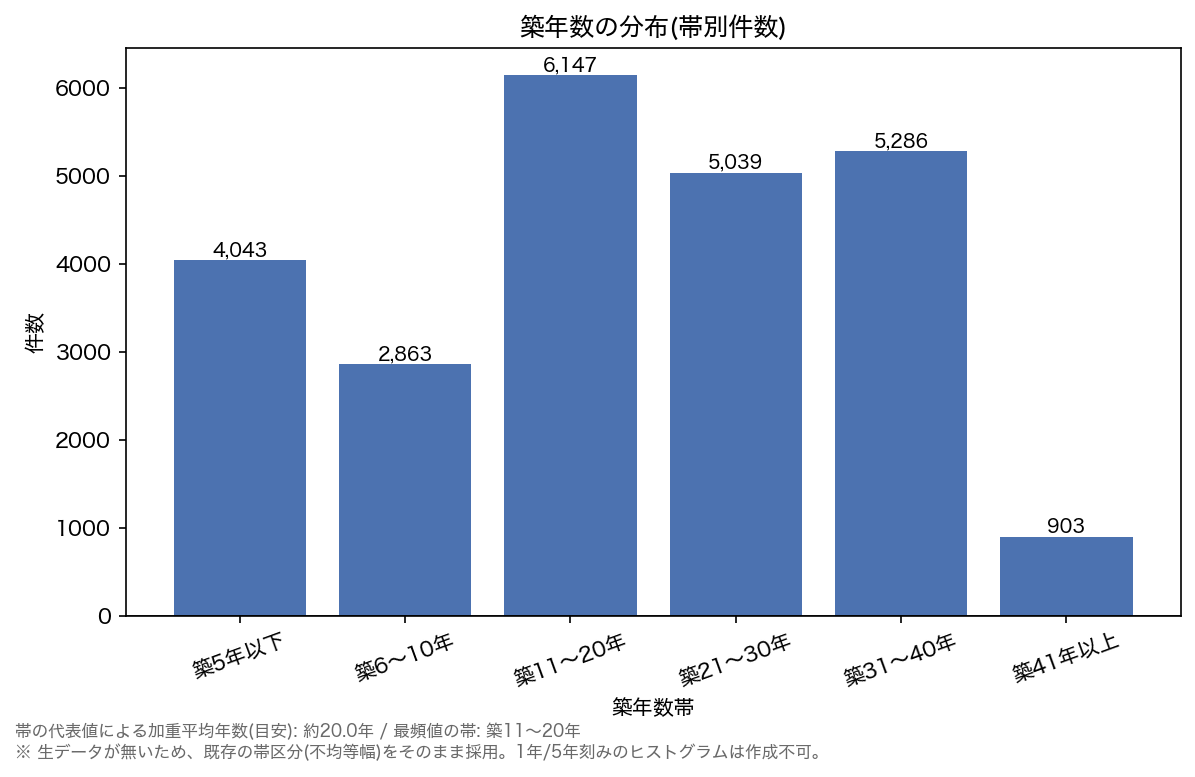
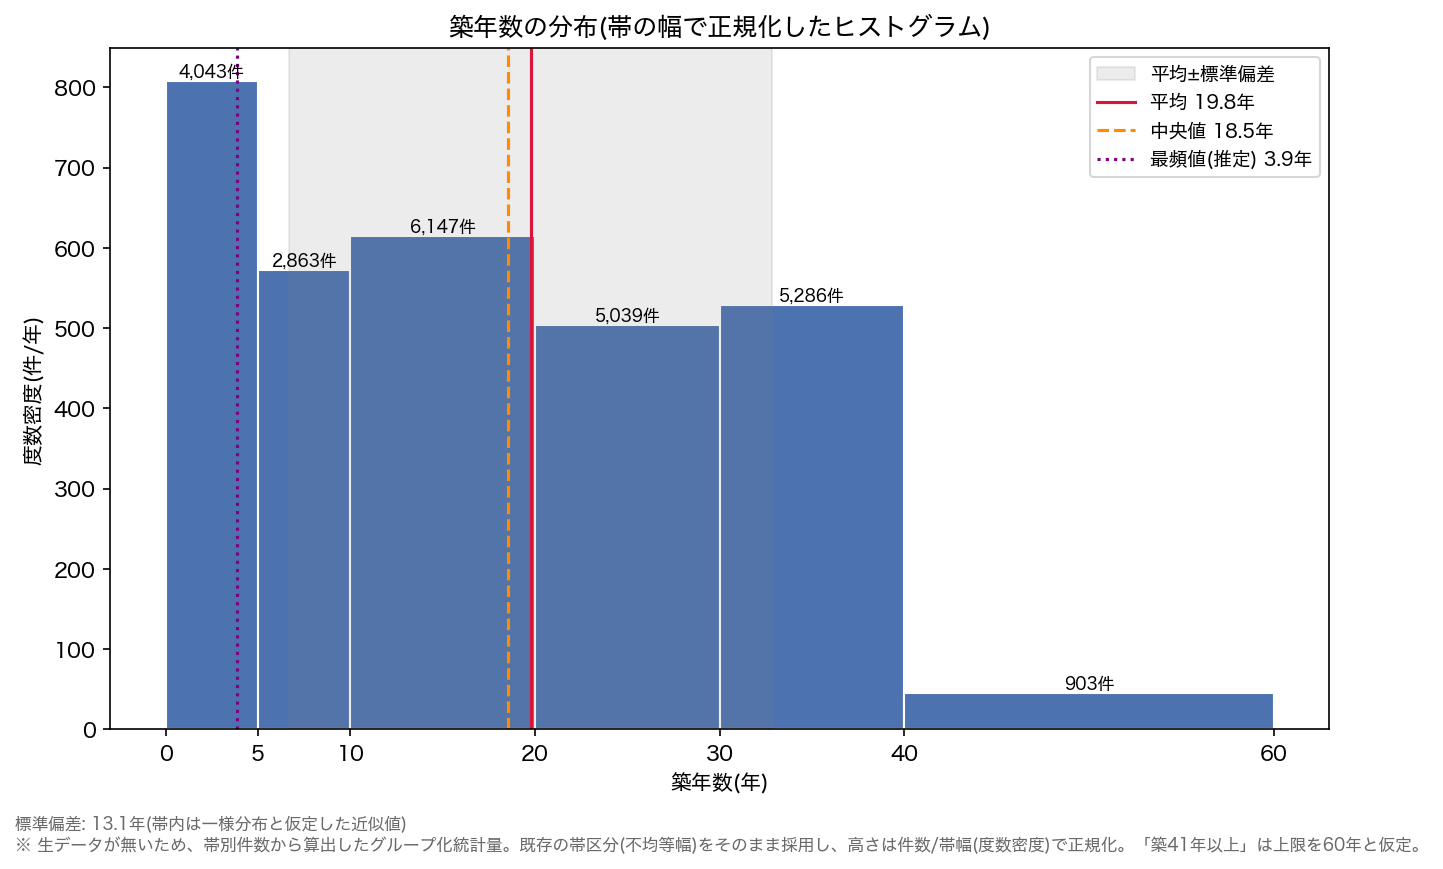
Add grouped mean/median/mode/std to age distribution chart
Recompute age band boundaries/widths from a single source, derive
grouped-data mean, variance (assuming within-band uniform distribution),
median (cumulative interpolation) and mode (classic grouped-mode
formula using density to account for unequal band widths), and overlay
them on a proper density-normalized histogram instead of only printing
text.

diff --git a/analysis_age_layout/analyze.py b/analysis_age_layout/analyze.py
@@ -28,14 +28,18 @@ OUT_DIR = Path(__file__).resolve().parent / "output"
 OUT_DIR.mkdir(exist_ok=True)
 
 AGE_ORDER = ["築5年以下", "築6〜10年", "築11〜20年", "築21〜30年", "築31〜40年", "築41年以上"]
-AGE_MIDPOINT = {
-    "築5年以下": 2.5,
-    "築6〜10年": 8,
-    "築11〜20年": 15.5,
-    "築21〜30年": 25.5,
-    "築31〜40年": 35.5,
-    "築41年以上": 45,  # 上限なしの帯のため仮の代表値(下限+4年)を採用
+# 各帯の下限・上限(年)。「築41年以上」は上限なしの帯のため、直前の帯幅(10年)を
+# 目安に上限60年と仮定する(※この仮定は結果に注記する)。
+AGE_BOUNDS = {
+    "築5年以下": (0, 5),
+    "築6〜10年": (5, 10),
+    "築11〜20年": (10, 20),
+    "築21〜30年": (20, 30),
+    "築31〜40年": (30, 40),
+    "築41年以上": (40, 60),
 }
+AGE_MIDPOINT = {band: (lo + hi) / 2 for band, (lo, hi) in AGE_BOUNDS.items()}
+AGE_WIDTH = {band: hi - lo for band, (lo, hi) in AGE_BOUNDS.items()}
 
 
 def load_data() -> dict[str, pd.DataFrame]:
@@ -66,35 +70,82 @@ def step1_overview(data: dict) -> None:
     print("\n※ 欠損・異常値・重複はいずれも集計元スクリプト側で既に除外/処理済み。")
 
 
-def step2_age_distribution(age: pd.DataFrame) -> None:
+def grouped_age_stats(counts: pd.Series) -> dict[str, float]:
+    """帯(不均等幅)ごとの件数から、区間内一様分布を仮定したグループ化データの
+    平均・標準偏差・中央値・最頻値を求める(生データが無いための近似値)。"""
+    bands = list(counts.index)
+    n = counts.sum()
+
+    mean = sum(counts[b] * AGE_MIDPOINT[b] for b in bands) / n
+    variance = sum(
+        counts[b] * ((AGE_MIDPOINT[b] - mean) ** 2 + AGE_WIDTH[b] ** 2 / 12)
+        for b in bands
+    ) / n
+    std = variance ** 0.5
+
+    cum = 0
+    median = None
+    for b in bands:
+        lo, hi = AGE_BOUNDS[b]
+        if cum + counts[b] >= n / 2:
+            median = lo + (n / 2 - cum) / counts[b] * (hi - lo)
+            break
+        cum += counts[b]
+
+    density = {b: counts[b] / AGE_WIDTH[b] for b in bands}
+    modal_band = max(density, key=density.get)
+    i = bands.index(modal_band)
+    lo, hi = AGE_BOUNDS[modal_band]
+    f1 = density[modal_band]
+    f0 = density[bands[i - 1]] if i > 0 else 0
+    f2 = density[bands[i + 1]] if i < len(bands) - 1 else 0
+    denom = (f1 - f0) + (f1 - f2)
+    mode = lo + (f1 - f0) / denom * (hi - lo) if denom else (lo + hi) / 2
+
+    return {"mean": mean, "std": std, "median": median, "mode": mode, "modal_band": modal_band}
+
+
+def step2_age_distribution(age: pd.DataFrame) -> dict[str, float]:
     df = age.set_index("築年数帯").loc[AGE_ORDER]
     counts = df["件数"]
+    s = grouped_age_stats(counts)
 
-    weighted_mean = np.average([AGE_MIDPOINT[a] for a in AGE_ORDER], weights=counts)
-    mode_band = counts.idxmax()
+    fig, ax = plt.subplots(figsize=(9, 5.5))
+    lefts = [AGE_BOUNDS[b][0] for b in AGE_ORDER]
+    widths = [AGE_WIDTH[b] for b in AGE_ORDER]
+    heights = [counts[b] / AGE_WIDTH[b] for b in AGE_ORDER]
+    bars = ax.bar(lefts, heights, width=widths, align="edge", color="#4C72B0", edgecolor="white")
+    for b, bar in zip(AGE_ORDER, bars):
+        ax.text(
+            bar.get_x() + bar.get_width() / 2, bar.get_height(),
+            f"{counts[b]:,}件", ha="center", va="bottom", fontsize=8,
+        )
 
-    fig, ax = plt.subplots(figsize=(8, 5))
-    ax.bar(AGE_ORDER, counts, color="#4C72B0")
-    ax.set_xlabel("築年数帯")
-    ax.set_ylabel("件数")
-    ax.set_title("築年数の分布(帯別件数)")
-    ax.axhline(0, color="black", linewidth=0.8)
-    for i, v in enumerate(counts):
-        ax.text(i, v, f"{v:,}", ha="center", va="bottom", fontsize=9)
+    ax.axvspan(s["mean"] - s["std"], s["mean"] + s["std"], color="gray", alpha=0.15, label="平均±標準偏差")
+    ax.axvline(s["mean"], color="crimson", linewidth=1.5, label=f"平均 {s['mean']:.1f}年")
+    ax.axvline(s["median"], color="darkorange", linestyle="--", linewidth=1.5, label=f"中央値 {s['median']:.1f}年")
+    ax.axvline(s["mode"], color="purple", linestyle=":", linewidth=1.5, label=f"最頻値(推定) {s['mode']:.1f}年")
+
+    ax.set_xlabel("築年数(年)")
+    ax.set_ylabel("度数密度(件/年)")
+    ax.set_title("築年数の分布(帯の幅で正規化したヒストグラム)")
+    ax.set_xticks([0, 5, 10, 20, 30, 40, 60])
+    ax.legend(fontsize=9)
     fig.text(
-        0.01, -0.02,
-        f"帯の代表値による加重平均年数(目安): 約{weighted_mean:.1f}年 / 最頻値の帯: {mode_band}\n"
-        "※ 生データが無いため、既存の帯区分(不均等幅)をそのまま採用。1年/5年刻みのヒストグラムは作成不可。",
+        0.01, -0.04,
+        f"標準偏差: {s['std']:.1f}年(帯内は一様分布と仮定した近似値)\n"
+        "※ 生データが無いため、帯別件数から算出したグループ化統計量。既存の帯区分(不均等幅)をそのまま採用し、"
+        "高さは件数/帯幅(度数密度)で正規化。「築41年以上」は上限を60年と仮定。",
         fontsize=8, color="dimgray",
     )
-    plt.xticks(rotation=20)
     fig.tight_layout()
     fig.savefig(OUT_DIR / "01_age_distribution.png", dpi=150, bbox_inches="tight")
     plt.close(fig)
 
     print("\n[手順2-1] 築年数分布")
-    print(f"  最頻値の帯: {mode_band} ({counts.max():,}件)")
-    print(f"  帯代表値による加重平均年数(目安): {weighted_mean:.1f}年")
+    print(f"  平均: {s['mean']:.1f}年 / 中央値: {s['median']:.1f}年 / "
+          f"最頻値(推定): {s['mode']:.1f}年(最多密度の帯: {s['modal_band']}) / 標準偏差: {s['std']:.1f}年")
+    return s
 
 
 def step2_layout_distribution(layout: pd.DataFrame) -> None:
@@ -196,7 +247,7 @@ def step3_layout_vs_duration(layout: pd.DataFrame) -> None:
     print(table.to_string(index=False))
 
 
-def step4_representative_values(age: pd.DataFrame, layout: pd.DataFrame) -> str:
+def step4_representative_values(age: pd.DataFrame, layout: pd.DataFrame, age_stats: dict[str, float]) -> str:
     lines = ["# 築年数・間取り分析レポート", ""]
     lines.append(
         "本レポートは `analysis_kokubunji/` 配下の集計済みCSV(帯別・カテゴリ別の件数と"
@@ -207,6 +258,11 @@ def step4_representative_values(age: pd.DataFrame, layout: pd.DataFrame) -> str:
     lines.append("")
 
     lines.append("## 築年数")
+    lines.append(
+        f"グループ化統計量(近似): 平均{age_stats['mean']:.1f}年 / 中央値{age_stats['median']:.1f}年 / "
+        f"最頻値(推定){age_stats['mode']:.1f}年 / 標準偏差{age_stats['std']:.1f}年"
+    )
+    lines.append("")
     for _, row in age.sort_values("件数", ascending=False).iterrows():
         skew = "平均 > 中央値(右に歪み)" if row["掲載期間平均日数"] > row["掲載期間中央値"] else "平均 ≈ 中央値"
         lines.append(
@@ -217,8 +273,12 @@ def step4_representative_values(age: pd.DataFrame, layout: pd.DataFrame) -> str:
     lines.append(
         "築年数帯ごとの掲載期間は、どの帯も平均が中央値を上回っており、右に裾を引く"
         "分布(長期掲載の少数の物件に平均が引っ張られる形)になっていると考えられる。"
-        "そのため代表値としては外れ値の影響を受けにくい**中央値**が妥当。"
-        "築年数自体の代表値は、最も件数が多い帯(最頻値)で捉えるのが実務上分かりやすい。"
+        "そのため代表値としては外れ値の影響を受けにくい**中央値**が妥当。\n\n"
+        f"築年数自体の分布も、平均({age_stats['mean']:.1f}年)が中央値({age_stats['median']:.1f}年)"
+        f"よりやや大きく、右に緩やかに裾を引く形になっている。単純な件数最多の帯は「築11〜20年」だが、"
+        f"帯の幅(10年)を考慮した度数密度でみると最も密度が高いのは「築5年以下」の帯であり、"
+        f"最頻値は約{age_stats['mode']:.1f}年と推定される。したがって築年数の代表値も、"
+        "件数最多の帯だけで判断せず中央値・最頻値をあわせて確認するのが妥当。"
     )
     lines.append("")
 
@@ -254,11 +314,11 @@ def step4_representative_values(age: pd.DataFrame, layout: pd.DataFrame) -> str:
 def main() -> None:
     data = load_data()
     step1_overview(data)
-    step2_age_distribution(data["age"])
+    age_stats = step2_age_distribution(data["age"])
     step2_layout_distribution(data["layout"])
     step3_age_vs_duration(data["age"])
     step3_layout_vs_duration(data["layout"])
-    report = step4_representative_values(data["age"], data["layout"])
+    report = step4_representative_values(data["age"], data["layout"], age_stats)
     report_path = Path(__file__).resolve().parent / "report.md"
     report_path.write_text(report, encoding="utf-8")
     print(f"\nレポートを書き出しました: {report_path}")

diff --git a/analysis_age_layout/report.md b/analysis_age_layout/report.md
@@ -3,6 +3,8 @@
 本レポートは `analysis_kokubunji/` 配下の集計済みCSV(帯別・カテゴリ別の件数と掲載期間統計量)を用いて作成した。物件1件ごとの生データ(bukken_rent TSV)は容量の都合でリポジトリに含まれていないため、ヒストグラムのビン幅は既存の帯区分に従い、散布図・相関係数は帯/カテゴリ単位の近似値である。
 
 ## 築年数
+グループ化統計量(近似): 平均19.8年 / 中央値18.5年 / 最頻値(推定)3.9年 / 標準偏差13.1年
+
 - 築11〜20年: 件数6,147 / 平均34.1日 / 中央値12.0日 (平均 > 中央値(右に歪み))
 - 築31〜40年: 件数5,286 / 平均86.0日 / 中央値39.0日 (平均 > 中央値(右に歪み))
 - 築21〜30年: 件数5,039 / 平均88.5日 / 中央値34.0日 (平均 > 中央値(右に歪み))
@@ -10,7 +12,9 @@
 - 築6〜10年: 件数2,863 / 平均24.3日 / 中央値11.0日 (平均 > 中央値(右に歪み))
 - 築41年以上: 件数903 / 平均103.6日 / 中央値42.0日 (平均 > 中央値(右に歪み))
 
-築年数帯ごとの掲載期間は、どの帯も平均が中央値を上回っており、右に裾を引く分布(長期掲載の少数の物件に平均が引っ張られる形)になっていると考えられる。そのため代表値としては外れ値の影響を受けにくい**中央値**が妥当。築年数自体の代表値は、最も件数が多い帯(最頻値)で捉えるのが実務上分かりやすい。
+築年数帯ごとの掲載期間は、どの帯も平均が中央値を上回っており、右に裾を引く分布(長期掲載の少数の物件に平均が引っ張られる形)になっていると考えられる。そのため代表値としては外れ値の影響を受けにくい**中央値**が妥当。
+
+築年数自体の分布も、平均(19.8年)が中央値(18.5年)よりやや大きく、右に緩やかに裾を引く形になっている。単純な件数最多の帯は「築11〜20年」だが、帯の幅(10年)を考慮した度数密度でみると最も密度が高いのは「築5年以下」の帯であり、最頻値は約3.9年と推定される。したがって築年数の代表値も、件数最多の帯だけで判断せず中央値・最頻値をあわせて確認するのが妥当。
 
 ## 間取り
 - K: 件数11,011 / 平均55.7日 / 中央値18.0日
